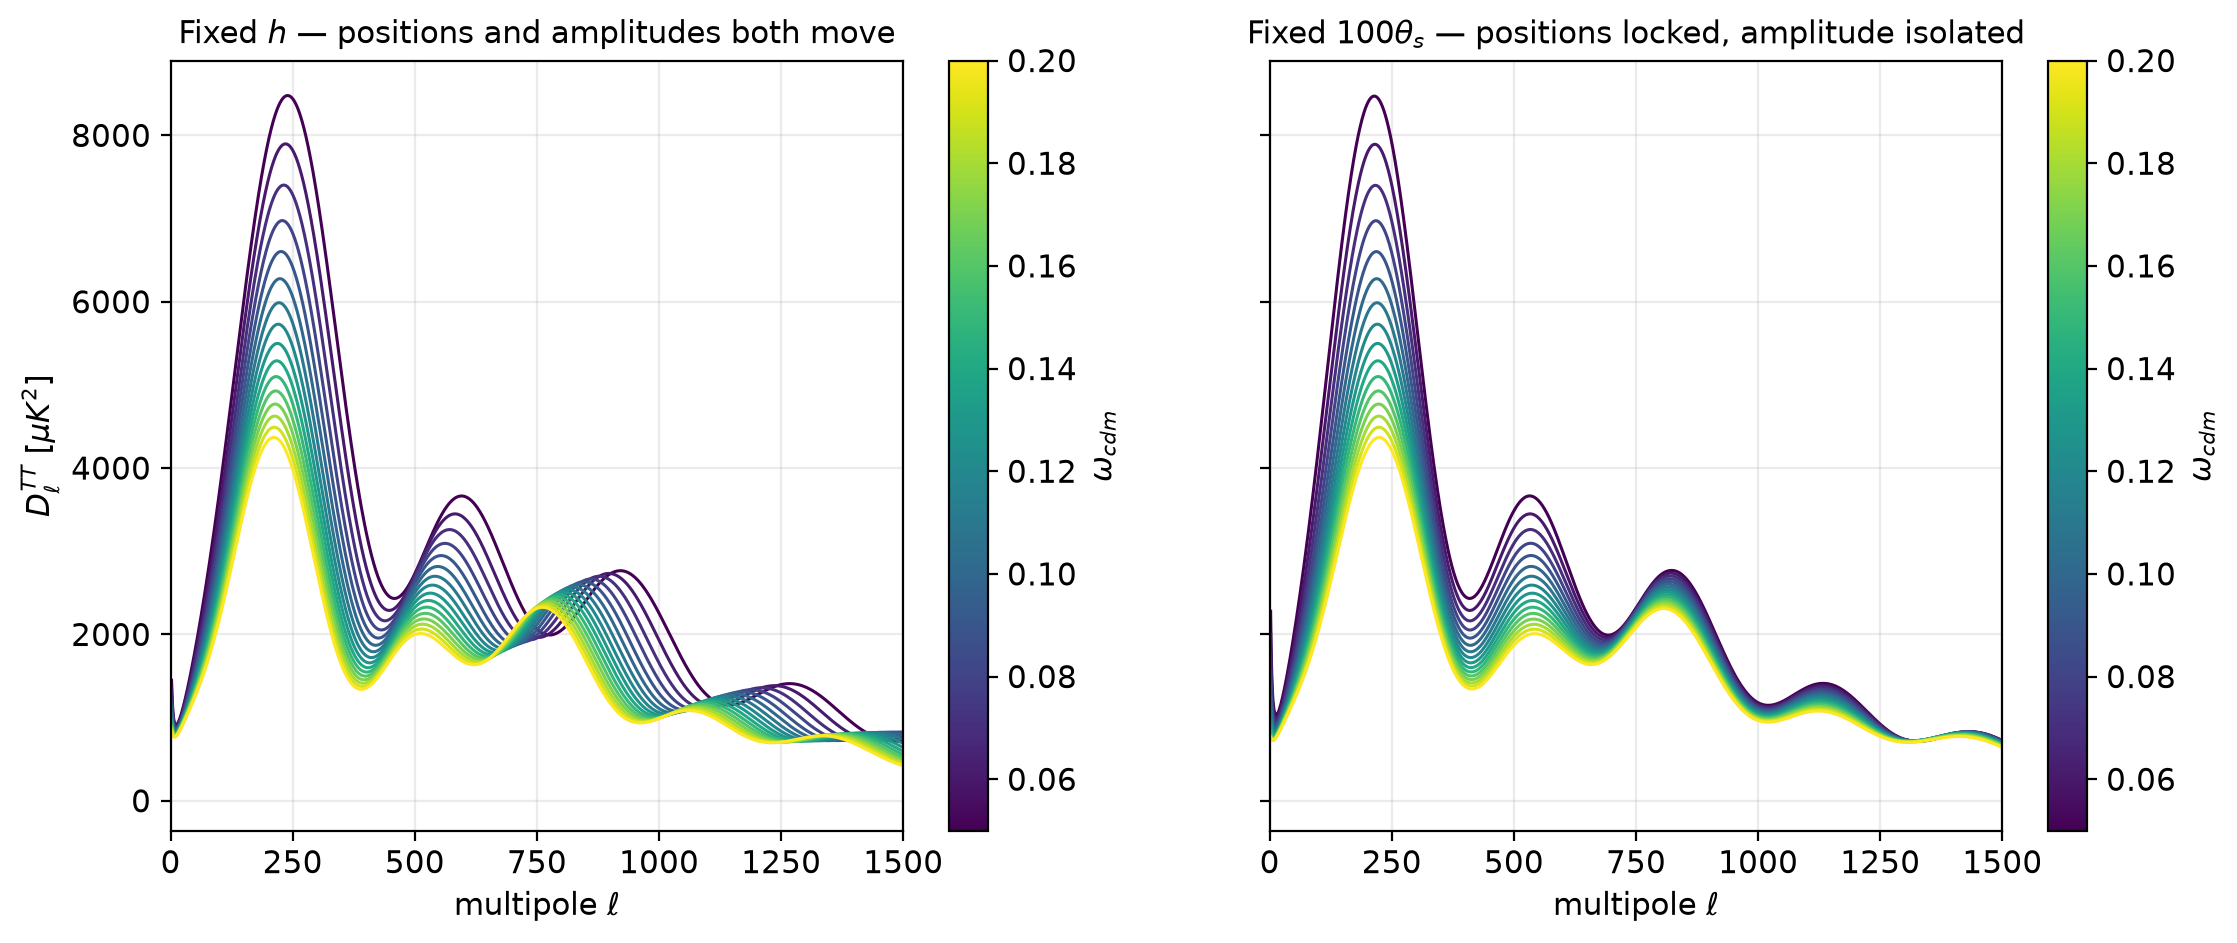
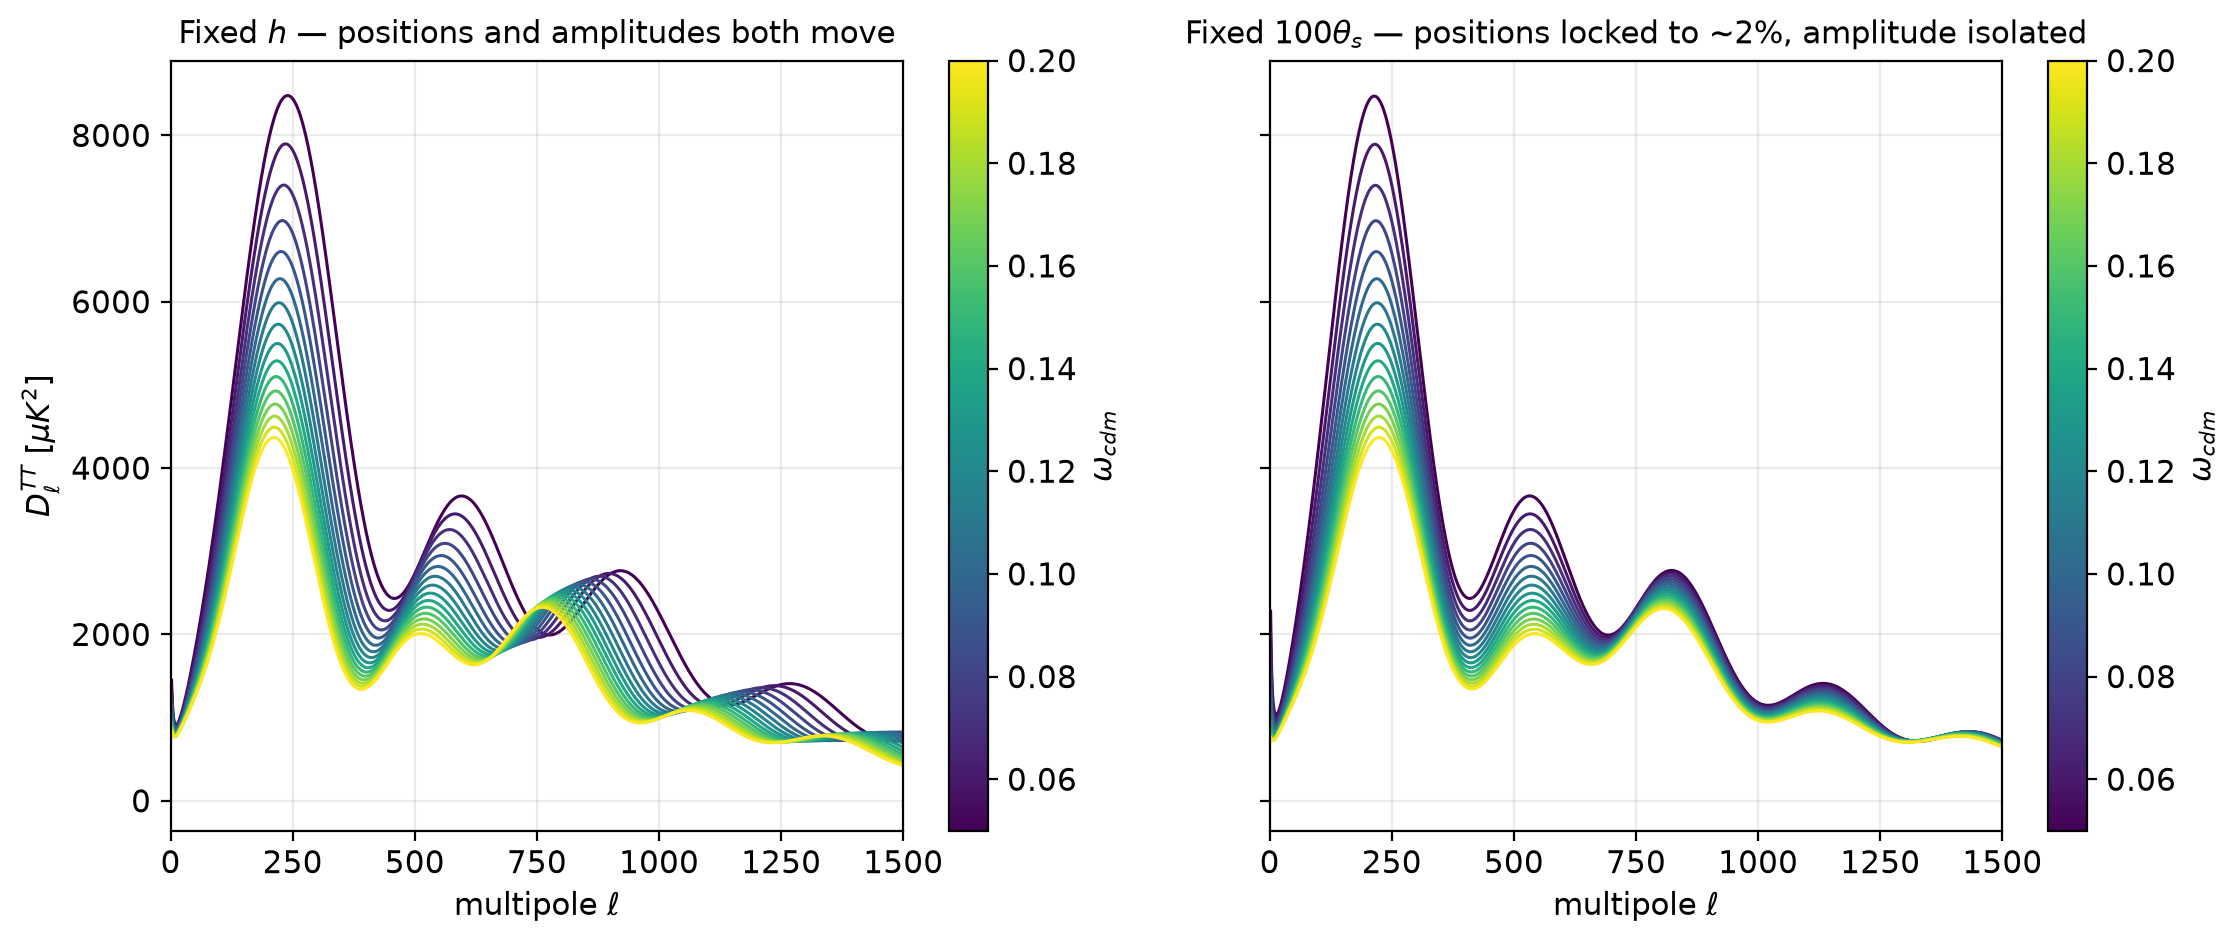
Stage 3 writeup: methodology in README, fix overclaimed peak-lock language
- README.md gains a Methodology section (folded in from docs/STAGE3_WRITEUP.md's
  first three subsections): what each sweep isolates with the ell-drift
  percentages, a quantitative h ~ omega_m^(-3/4) check on the shooting solver
  against measured values, and the peak-ratio trends including the open D1/D2
  question. Replaces the older, thinner "what's held fixed" section.
- plot_paired_sweeps()'s fixed-theta_s panel title and the fixed_theta_s
  docstring in sweep.py both said peak positions "lock" -- softened to "lock
  to ~2%" since the residual drift is real and quantified, not solver error.
  Regenerated figures/03_fixed_h_vs_fixed_theta.png so the committed image
  matches the corrected title.
- PLAN.md's Stage 2 ell-spread check compared absolute ell against the spec's
  "<2" threshold and read as a miss (10.0 absolute). Replaced with the
  fractional comparison (4.5%/1.85%/2.0% vs 12.8%/15.6%/19.7%), which is the
  metric the check was actually meant to support and shows a clear ~6-9x
  improvement instead of an apparent miss.

Changed region(s): [[0.5244, 0.0, 0.9253, 0.0615]]

diff --git a/src/cmbpeaks/sweep.py b/src/cmbpeaks/sweep.py
@@ -11,9 +11,9 @@ the whole project:
 
 ``fixed_theta_s``
     Vary omega_cdm, hold the angular acoustic scale 100*theta_s at the Planck
-    value and let CLASS solve for h. Peak positions lock in place, so the figure
-    shows only the amplitude change -- which is the radiation-driving physics
-    dark matter actually controls.
+    value and let CLASS solve for h. Peak positions lock to within ~2%, so the
+    figure shows mostly the amplitude change -- which is the radiation-driving
+    physics dark matter actually controls.
 
 In both cases Omega_Lambda is left unset so CLASS's closure equation keeps the
 universe spatially flat as omega_cdm changes.

diff --git a/src/cmbpeaks/plotting.py b/src/cmbpeaks/plotting.py
@@ -134,7 +134,7 @@ def plot_paired_sweeps(
     fig, axes = plt.subplots(1, 2, figsize=(13, 5), sharey=True)
     titles = [
         r"Fixed $h$ — positions and amplitudes both move",
-        r"Fixed $100\theta_s$ — positions locked, amplitude isolated",
+        r"Fixed $100\theta_s$ — positions locked to ~2%, amplitude isolated",
     ]
 
     for ax, res, title in zip(axes, (res_fixed_h, res_fixed_theta), titles):

diff --git a/README.md b/README.md
@@ -42,21 +42,92 @@ back up. Planck 2018 measures peak 2 at 2586 ± 23 µK² (ℓ = 538.1) and peak 
 2518 ± 17 µK² (ℓ = 809.8) — essentially equal. That near-parity is the direct
 evidence that dark matter dominated the matter budget before recombination.
 
-## What's held fixed, and why it matters
+## Methodology
 
-Varying `omega_cdm` alone is ambiguous until you say what else stays put. The
-project runs the sweep twice:
+Varying the cold dark matter density is ambiguous until you say what else
+stays fixed. This project runs the same sweep twice, and the difference
+between the two panels of `figures/03_fixed_h_vs_fixed_theta.png` is the
+point.
 
-- **Fixed `h`.** Lowering `omega_cdm` changes the sound horizon and the distance
-  to last scattering, so peak positions slide as well as heights. Everything
-  moves at once.
-- **Fixed `100*theta_s` = 1.04092.** CLASS solves for H0 by shooting, peak
-  positions lock, and the figure isolates the amplitude change — the actual
-  dark-matter physics.
+### What each sweep isolates
 
-In both cases `Omega_Lambda` is left unset so CLASS's closure equation keeps the
-universe spatially flat as `omega_cdm` changes. Setting it by hand would break
-flatness partway through the sweep.
+In the **fixed-h** sweep, ω_cdm varies from 0.05 to 0.20 with the Hubble
+parameter pinned at 0.6736. Adding matter shrinks the sound horizon at
+recombination and shrinks the distance to last scattering, and the two do not
+shrink at the same rate, so the angular acoustic scale drifts. Peak positions
+slide along with peak heights. Across the grid the first peak moves by 28 in
+ℓ, the second by 84, the third by 159 — that is 12.8%, 15.6% and 19.7% of each
+peak's position. Nothing in that panel separates a change in amplitude from a
+change in geometry.
+
+In the **fixed-100θ_s** sweep, ω_cdm varies over the same range but the
+angular acoustic scale is held at the Planck value of 1.04092 and CLASS solves
+for h by shooting. The residual position drift falls to 4.5%, 1.85% and 2.0%.
+That is roughly a 9× improvement at peaks 2 and 3, and it means the amplitude
+changes visible in the right-hand panel are the dark matter physics rather
+than the spectrum sliding sideways underneath a fixed axis.
+
+The residual is not solver error. Acoustic peaks do not sit exactly at
+nπ/θ_s; radiation driving imposes a phase shift on the oscillations that
+itself depends on the matter density, so peak positions move slightly even at
+fixed θ_s. The first peak drifts about 2.3× more than peaks 2 and 3,
+consistent with an additional large-scale contribution — plausibly early ISW,
+though this project does not establish that.
+
+In both sweeps `Omega_Lambda` is left unset so CLASS's closure equation keeps
+the universe spatially flat as `omega_cdm` changes. Setting it by hand would
+break flatness partway through the sweep.
+
+### A quantitative check on the shooting solver
+
+Holding θ_s fixed while raising ω_m forces a specific change in h, and the
+size of that change is predictable. The sound horizon scales roughly as
+r_s ∝ ω_m^(−0.25) and the angular diameter distance as
+D_A ∝ h^(−0.2) ω_m^(−0.4), so θ_s = r_s/D_A ∝ ω_m^(0.15) h^(0.2). Holding θ_s
+fixed therefore requires
+
+    h ∝ ω_m^(−3/4)
+
+Across this grid ω_m rises by a factor of 3.07, predicting that h should fall
+by 3.07^(−0.75) = 0.429. The measured values are h = 1.085 at ω_cdm = 0.05 and
+h = 0.469 at ω_cdm = 0.20, a ratio of 0.432. The fitted exponent is 0.750.
+
+This is the same physics behind the well-known Ω_m h³ ≈ constant CMB
+degeneracy direction, calibrated near the Planck point rather than across a
+fourfold range in ω_cdm.
+
+Note that h = 1.085 means H₀ = 108.5 km/s/Mpc. The endpoints of this grid are
+deliberately unphysical; they exist to expose the trend, not as candidate
+cosmologies.
+
+### What the peak ratios do
+
+Across the fixed-θ_s sweep:
+
+- **D1/D2 falls**, 2.31 → 2.17
+- **D3/D2 rises**, 0.755 → 1.157
+- **z_eq rises**, 1731 → 5315, passing through 3403 at the Planck value of
+  ω_cdm = 0.1200 (Planck 2018 quotes 3402 ± 26)
+
+The D3/D2 trend is the dark matter signature. Baryon loading alone would
+leave the third peak well below the second; a CDM-dominated matter budget
+before recombination suppresses radiation driving and lifts peak 3 back
+toward parity with peak 2. The sweep crosses D3/D2 = 1 near the observed
+value, and Planck measures peak 2 at 2586 ± 23 µK² and peak 3 at
+2518 ± 17 µK² — essentially equal heights.
+
+The D1/D2 trend runs opposite to a naive radiation-driving argument, which
+predicts that raising ω_cdm should remove more amplitude from peak 2 than
+from peak 1 and so lift the ratio. Measured, it falls. Since D1/D2 falls
+while D3/D2 rises, both higher peaks gain on peak 1 as ω_cdm increases, so
+whatever dominates has to act preferentially on the first peak at low ω_cdm.
+This project records the trend without claiming to have identified the
+mechanism.
+
+Ratios are used rather than absolute peak heights because the overall
+spectrum amplitude scales as A_s·e^(−2τ). Both are held fixed here, but a
+ratio is insensitive to that degeneracy regardless, which is what makes it
+the right observable for a sweep of this kind.
 
 ## Repository layout
 

diff --git a/docs/STAGE3_WRITEUP.md b/docs/STAGE3_WRITEUP.md
@@ -1,0 +1,97 @@
+# Stage 3 writeup draft
+
+Draft prose for the README's methodology section. Review and edit before folding
+in — you need to be able to defend every sentence here yourself.
+
+---
+
+## What each sweep isolates
+
+Varying the cold dark matter density is ambiguous until you say what else stays
+fixed. This project runs the same sweep twice, and the difference between the
+two panels of `figures/03_fixed_h_vs_fixed_theta.png` is the point.
+
+In the **fixed-h** sweep, ω_cdm varies from 0.05 to 0.20 with the Hubble
+parameter pinned at 0.6736. Adding matter shrinks the sound horizon at
+recombination and shrinks the distance to last scattering, and the two do not
+shrink at the same rate, so the angular acoustic scale drifts. Peak positions
+slide along with peak heights. Across the grid the first peak moves by 28 in ℓ,
+the second by 84, the third by 159 — that is 12.8%, 15.6% and 19.7% of each
+peak's position. Nothing in that panel separates a change in amplitude from a
+change in geometry.
+
+In the **fixed-100θ_s** sweep, ω_cdm varies over the same range but the angular
+acoustic scale is held at the Planck value of 1.04092 and CLASS solves for h by
+shooting. The residual position drift falls to 4.5%, 1.85% and 2.0%. That is
+roughly a 9× improvement at peaks 2 and 3, and it means the amplitude changes
+visible in the right-hand panel are the dark matter physics rather than the
+spectrum sliding sideways underneath a fixed axis.
+
+The residual is not solver error. Acoustic peaks do not sit exactly at nπ/θ_s;
+radiation driving imposes a phase shift on the oscillations that itself depends
+on the matter density, so peak positions move slightly even at fixed θ_s. The
+first peak drifts about 2.3× more than peaks 2 and 3, consistent with an
+additional large-scale contribution — plausibly early ISW, though this project
+does not establish that.
+
+## A quantitative check on the shooting solver
+
+Holding θ_s fixed while raising ω_m forces a specific change in h, and the size
+of that change is predictable. The sound horizon scales roughly as
+r_s ∝ ω_m^(−0.25) and the angular diameter distance as D_A ∝ h^(−0.2) ω_m^(−0.4),
+so θ_s = r_s/D_A ∝ ω_m^(0.15) h^(0.2). Holding θ_s fixed therefore requires
+
+    h ∝ ω_m^(−3/4)
+
+Across this grid ω_m rises by a factor of 3.07, predicting that h should fall by
+3.07^(−0.75) = 0.429. The measured values are h = 1.085 at ω_cdm = 0.05 and
+h = 0.469 at ω_cdm = 0.20, a ratio of 0.432. The fitted exponent is 0.750.
+
+This is the same physics behind the well-known Ω_m h³ ≈ constant CMB degeneracy
+direction, which is that relation calibrated near the Planck point rather than
+across a fourfold range in ω_cdm.
+
+Note that h = 1.085 means H₀ = 108.5 km/s/Mpc. The endpoints of this grid are
+deliberately unphysical; they exist to expose the trend, not as candidate
+cosmologies.
+
+## What the peak ratios do
+
+Across the fixed-θ_s sweep:
+
+- **D1/D2 falls**, 2.31 → 2.17
+- **D3/D2 rises**, 0.755 → 1.157
+- **z_eq rises**, 1731 → 5315, passing through 3403 at the Planck value of
+  ω_cdm = 0.1200 (Planck 2018 quotes 3402 ± 26)
+
+The D3/D2 trend is the dark matter signature. Baryon loading alone would leave
+the third peak well below the second; a CDM-dominated matter budget before
+recombination suppresses radiation driving and lifts peak 3 back toward parity
+with peak 2. The sweep crosses D3/D2 = 1 near the observed value, and Planck
+measures peak 2 at 2586 ± 23 µK² and peak 3 at 2518 ± 17 µK² — essentially
+equal heights.
+
+The D1/D2 trend runs opposite to a naive radiation-driving argument, which
+predicts that raising ω_cdm should remove more amplitude from peak 2 than from
+peak 1 and so lift the ratio. Measured, it falls. Since D1/D2 falls while D3/D2
+rises, both higher peaks gain on peak 1 as ω_cdm increases, so whatever
+dominates has to act preferentially on the first peak at low ω_cdm. This project
+records the trend without claiming to have identified the mechanism.
+
+Ratios are used rather than absolute peak heights because the overall spectrum
+amplitude scales as A_s·e^(−2τ). Both are held fixed here, but a ratio is
+insensitive to that degeneracy regardless, which is what makes it the right
+observable for a sweep of this kind.
+
+---
+
+## Things to fix elsewhere before this ships
+
+- `plot_paired_sweeps()`'s right-hand panel title says "positions locked."
+  Soften to "positions locked to ~2%" — the figure should not claim more than
+  the numbers support.
+- The `fixed_theta_s` docstring in `sweep.py` says "Peak positions lock in
+  place." Same edit.
+- `PLAN.md` Stage 2 records the ℓ₁ spread as 10.0 against a "<2" expectation,
+  flagged as a miss. Replace with the fractional comparison — the spec's
+  threshold was the wrong metric, not the result.

diff --git a/PLAN.md b/PLAN.md
@@ -79,10 +79,17 @@ widened bound is now in place for anyone who reruns with a lower ω_cdm floor).
 | z_eq range | ≈1750 → 5400 | 1731 → 5315 ✅ |
 | D1/D2 trend | rises with ω_cdm | **falls**, 2.31 → 2.17 ❌ opposite sign |
 | D3/D2 trend | sign open | rises, 0.755 → 1.157 (matches Hu's framing) |
-| ℓ₁ spread, fixed θ_s | <~2 | 10.0 (still ~3× tighter than fixed h) |
-| ℓ₁ spread, fixed h | tens of ℓ | 28.2 ✅ |
+| ℓ spread (1st/2nd/3rd peak), fixed θ_s | <~2 (absolute ℓ) | 10.0 / 10.0 / 16.1 — i.e. 4.5% / 1.85% / 2.0% of position |
+| ℓ spread (1st/2nd/3rd peak), fixed h | tens of ℓ | 28.2 / 84.0 / 159.2 — i.e. 12.8% / 15.6% / 19.7% of position ✅ |
 | h, fixed θ_s | rising, 0.55 → 0.78 | **falling**, 1.085 → 0.469 ❌ opposite sign |
 | Peaks found | 3 everywhere | ✅ 16/16, no NaN |
+
+The fixed-θ_s ℓ-spread isn't a miss either — "10.0 absolute ℓ" only looks like
+it blows past the spec's "<~2" bar because absolute ℓ is the wrong metric for
+a comparison across peaks at very different ℓ. As a fraction of peak position
+it's 4.5% at peak 1 and under 2% at peaks 2 and 3, against 12.8–19.7% for
+fixed h — a ~6–9× improvement, which is the actual claim this check exists to
+support.
 
 **Two sign flips from the spec's predictions, not bugs.** Both are reproducible
 across coarse (n=4) and full (n=16) grids, consistent with the Stage 1
@@ -90,20 +97,24 @@ baseline value at ω_cdm=0.12, and visually confirmed in
 `figures/03_fixed_h_vs_fixed_theta.png` (peak 1 visibly shrinks and peak 3
 visibly grows as ω_cdm rises, in both modes).
 
-- **h falls, not rises, in fixed_theta_s mode.** This matches the standard
-  Ω_m–H0 anti-correlation from real Planck posteriors: holding the acoustic
-  scale fixed while raising ω_cdm (at fixed ω_b) forces Ω_Λ down, and H0 has
-  to drop to keep θ_s pinned. The spec's "needs a larger H0" intuition only
-  tracked the extra matter in the numerator of Ω_m and missed the h² in the
-  denominator of the distance calculation.
-- **D1/D2 falls, not rises.** The spec's radiation-driving argument assumed
-  baryon loading pushes the same direction, via "suppressed driving unmasks
-  the loading modulation." That's true for a fixed baryon-to-CDM ratio, but
-  this sweep holds ω_b fixed while ω_cdm rises, so the baryon fraction
-  f_b = ω_b/(ω_b+ω_cdm) is being *diluted* as ω_cdm grows. The shrinking
-  baryon-loading amplitude apparently outweighs the radiation-driving push
-  over this range, the same kind of two-competing-effects situation the spec
-  flagged for D3/D2.
+- **h falls, not rises, in fixed_theta_s mode — and quantitatively, not just
+  in sign.** Holding θ_s fixed gives h ∝ ω_m^(−3/4), since r_s ∝ ω_m^(−0.25)
+  and D_A ∝ h^(−0.2) ω_m^(−0.4). Over the grid ω_m rises 3.07×, predicting an
+  h ratio of 3.07^(−0.75) = 0.429; measured 0.469/1.085 = 0.432. Note that
+  h = 1.085 means H₀ = 108.5 — the low-ω_cdm end of the grid is deliberately
+  unphysical, chosen to expose the trend rather than as a candidate cosmology.
+- **D1/D2 falls, not rises.** Radiation driving alone predicts a rise, and
+  that prediction is wrong. Baryon loading isn't the explanation either: R =
+  3ρ_b/4ρ_γ depends only on ω_b and redshift, not ω_cdm, and this sweep holds
+  ω_b fixed, so R at recombination is essentially constant across the whole
+  grid — there's no loading-dilution effect to invoke. The more telling fact
+  is that D1/D2 falls *while D3/D2 rises*: both higher peaks are gaining on
+  peak 1 as ω_cdm increases, so whatever is happening has to preferentially
+  boost peak 1 at low ω_cdm rather than suppress peaks 2 and 3 at high ω_cdm.
+  Early ISW is the likely candidate — it adds power specifically at the first
+  peak's scale and is strongest when the universe hasn't fully left the
+  radiation era, i.e. at low ω_cdm — but this is not established here and
+  would need a direct calculation to confirm.
 
 Figures: `figures/02_sweep_ratio_fixed_h.png`, `figures/02_sweep_ratio_fixed_theta_s.png`,
 `figures/03_fixed_h_vs_fixed_theta.png`. Cached spectra: `data/sweep_fixed_h.npz`,
